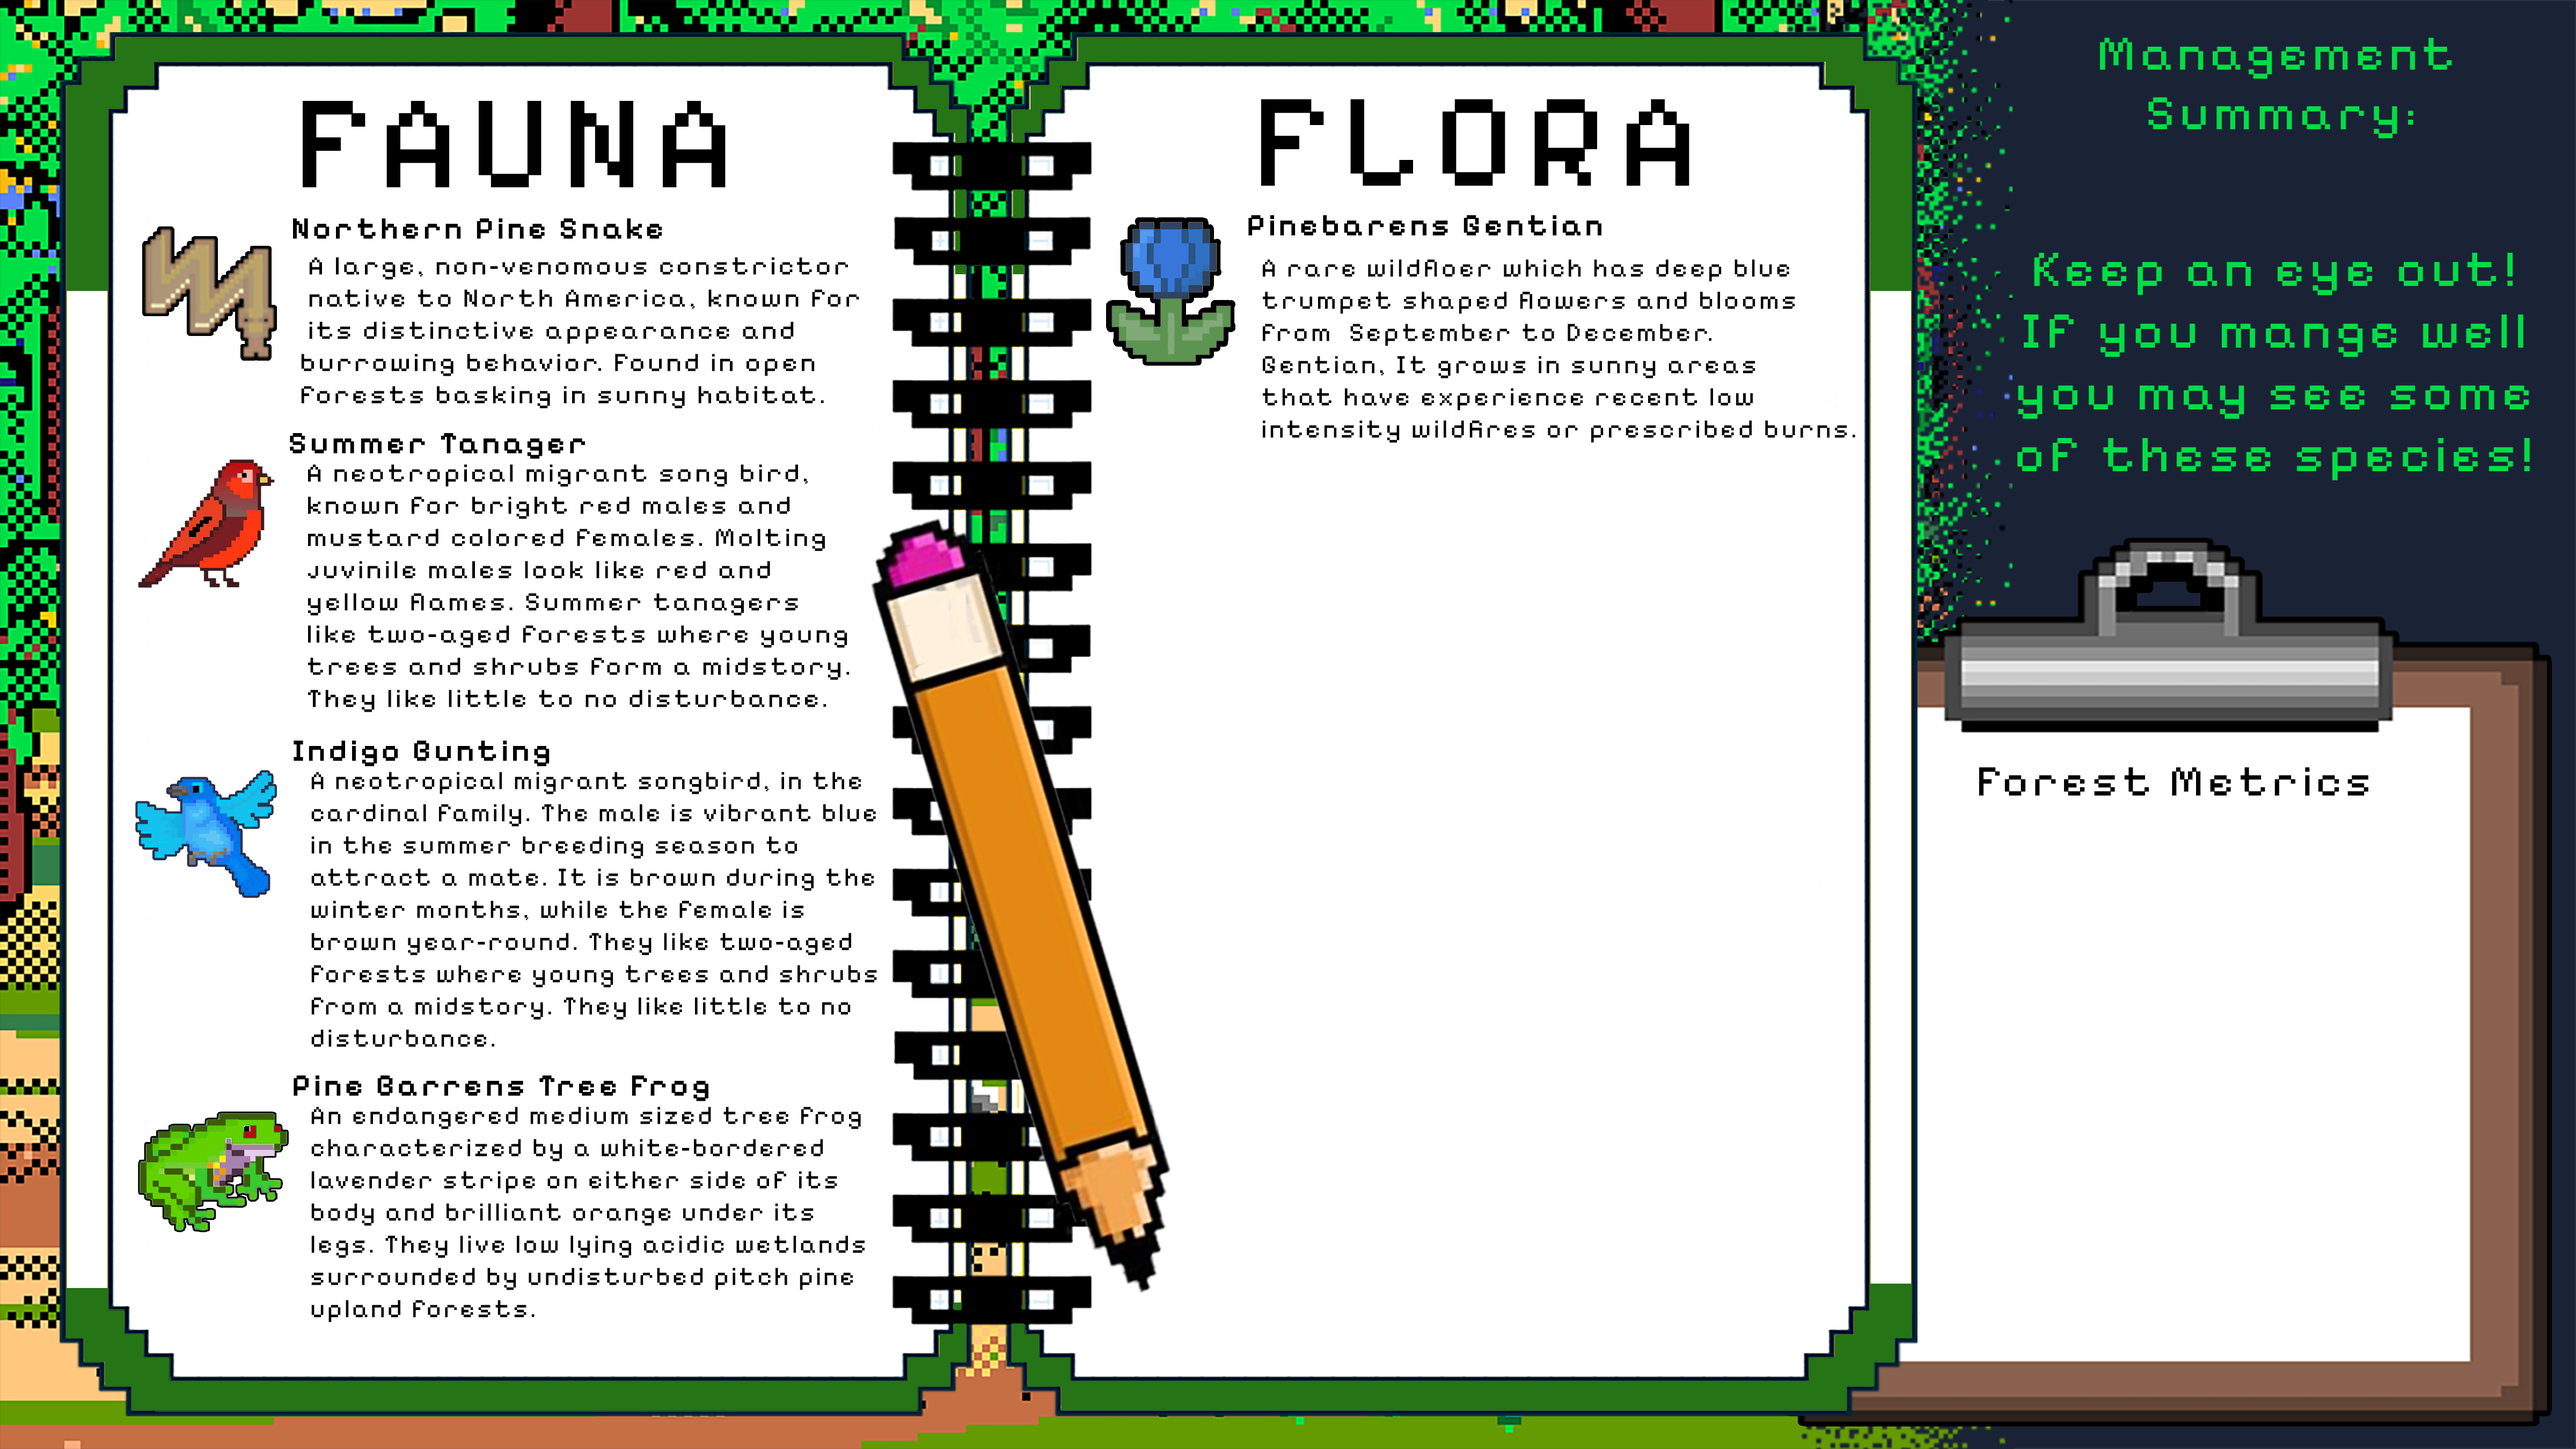
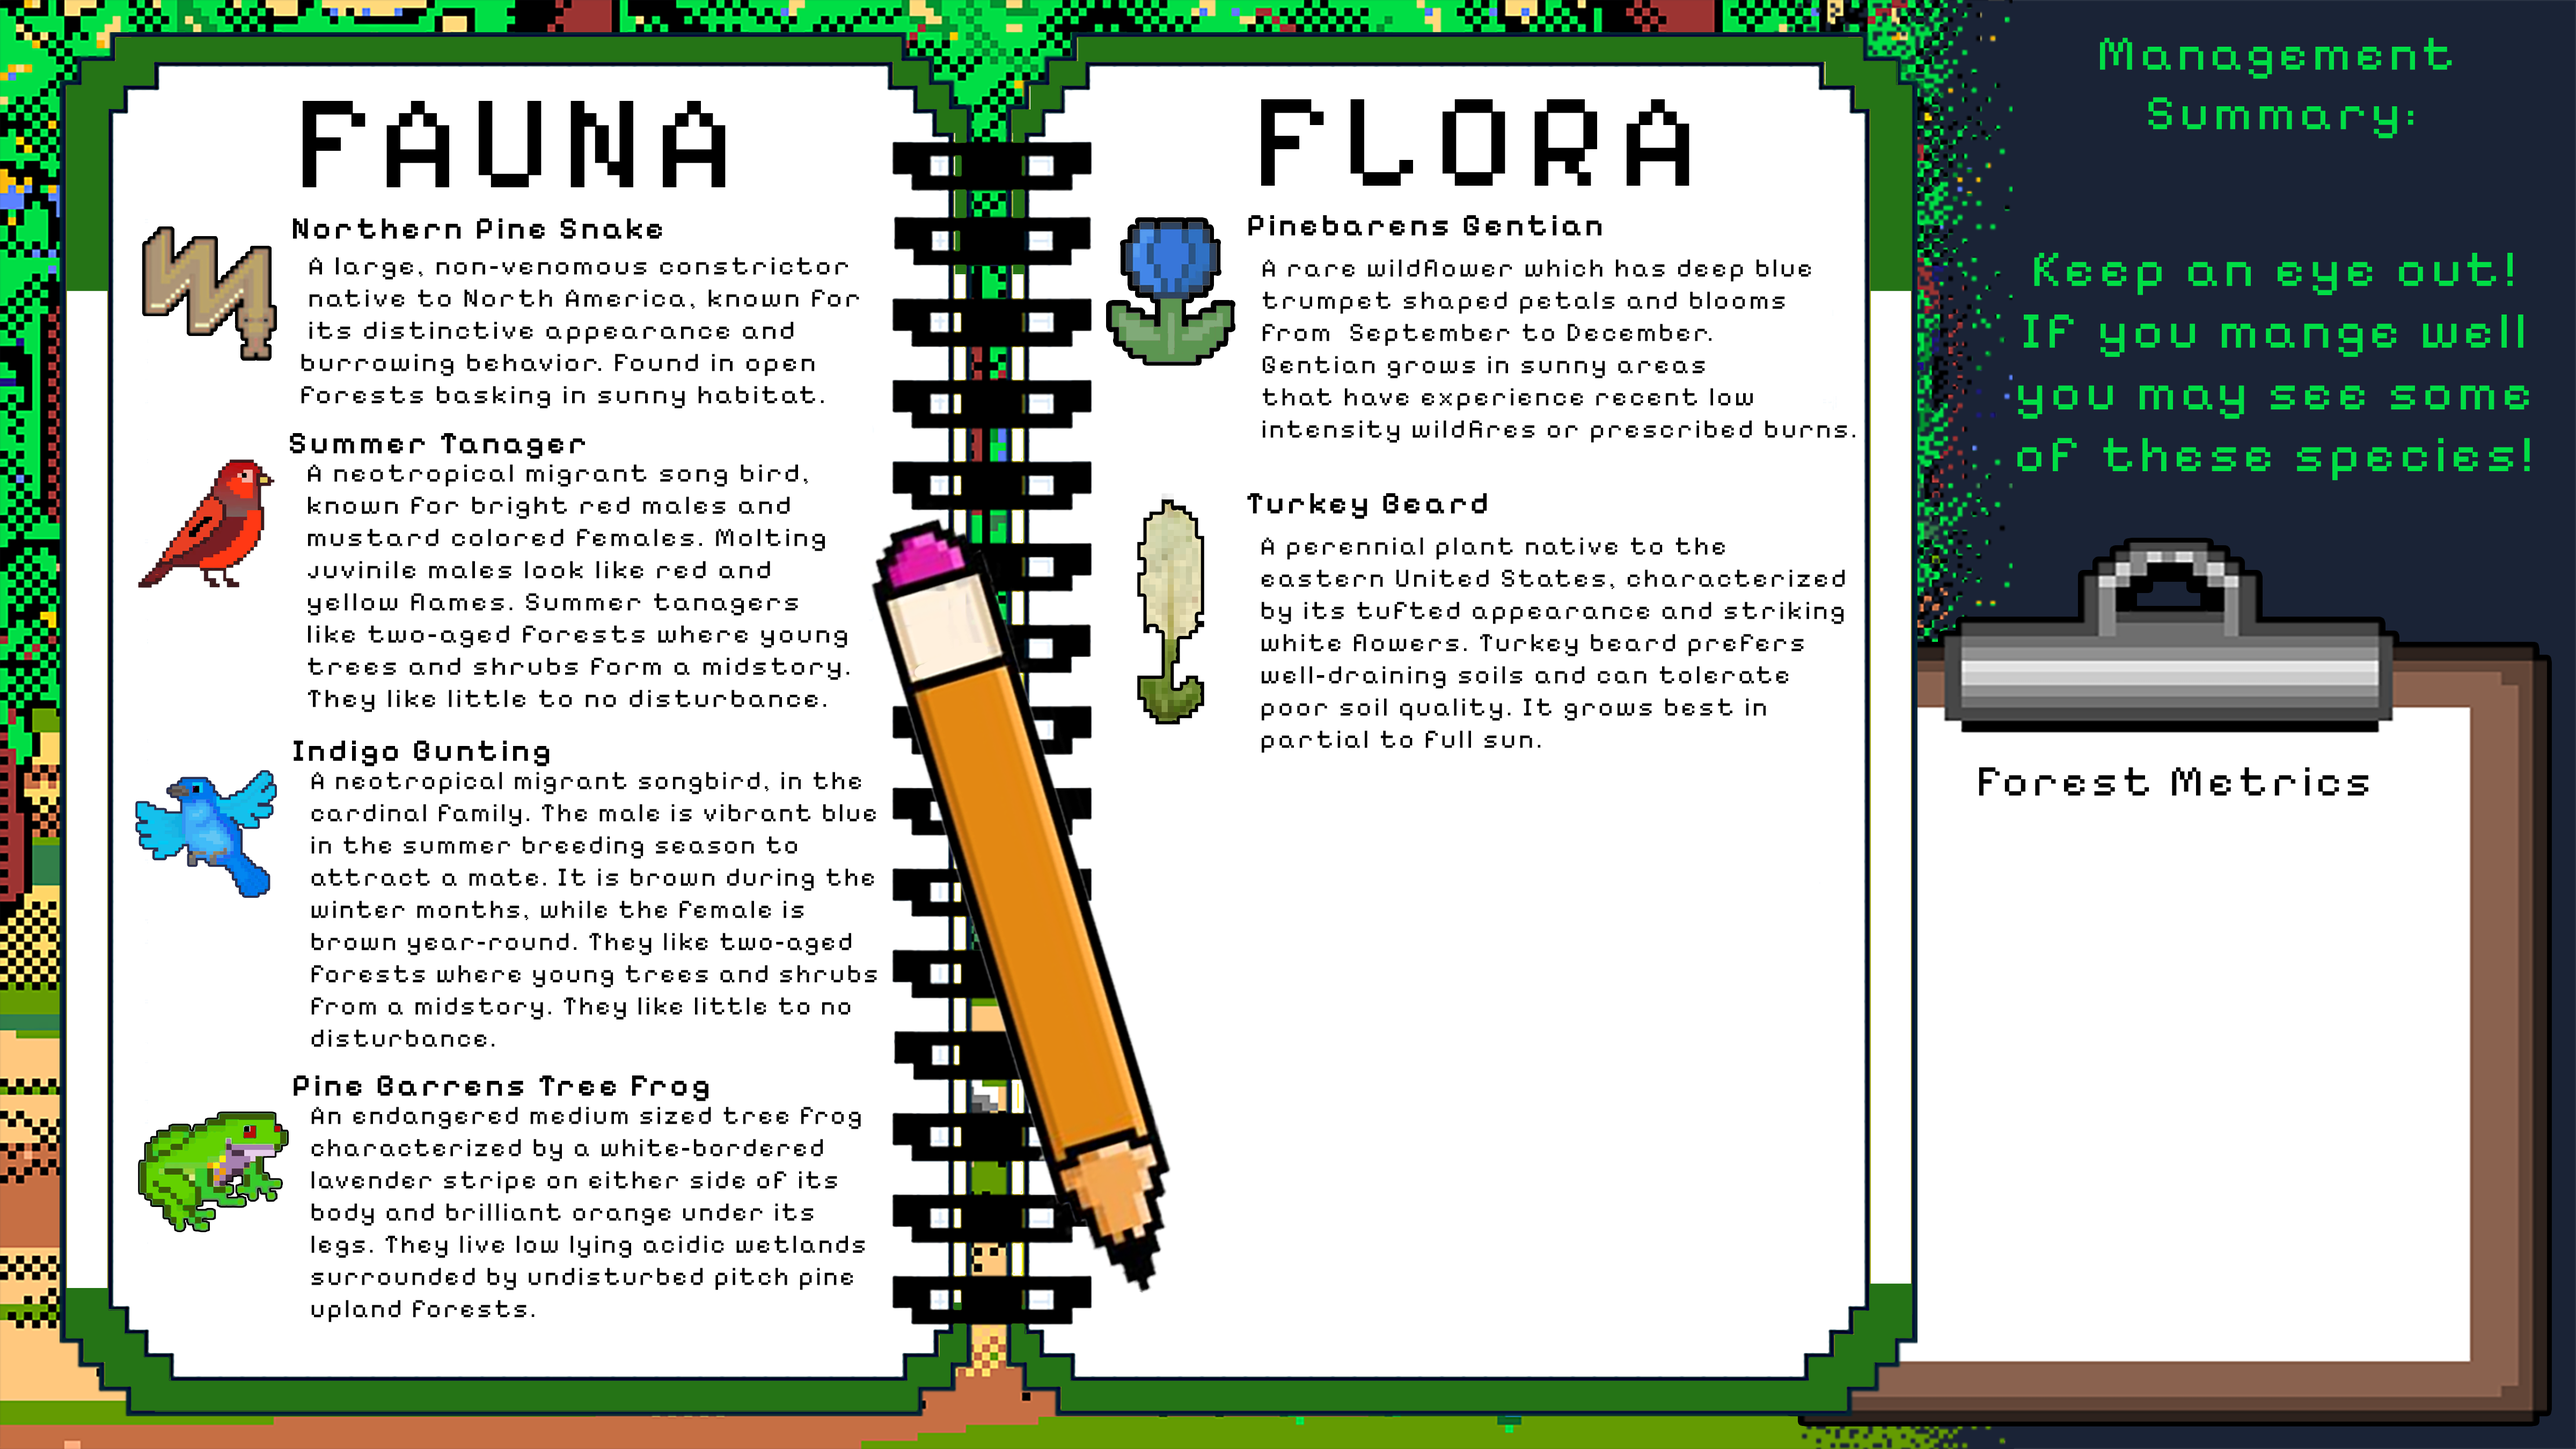
Addition of the turkey beard achievement

diff --git a/src/gui.py b/src/gui.py
@@ -45,7 +45,11 @@ def main():
     # Color constants
     BG_COLOR = "#FFFFFF"    # White background
     FG_COLOR = "#000000"    # Black text
-    
+    game.summer_tanager_screen_shown = False
+    game.tree_frog_screen_shown = False
+    game.gentian_screen_shown = False
+    game.indigo_bunting_screen_shown = False
+    game.turkey_beard_screen_shown = False
 
     # Set up the main window
     root = tk.Tk()
@@ -120,6 +124,20 @@ def main():
         game.prescribed_burn_temp_bg = None
         game.thin_lightly_temp_bg = None
         game.thin_heavily_temp_bg = None
+
+        # Ensure all achievement/colonization GUI flags are cleared so popups & medals reset
+        game.pine_snake_achieved = False
+        game.gentian_achieved = False
+        game.summer_tanager_achieved = False
+        game.tree_frog_achieved = False
+        game.indigo_bunting_achieved = False
+        game.turkey_beard_achieved = False
+
+        game.summer_tanager_screen_shown = False
+        game.tree_frog_screen_shown = False
+        game.gentian_screen_shown = False
+        game.indigo_bunting_screen_shown = False
+        game.turkey_beard_screen_shown = False
 
         # Rebuild UI
         for widget in root.winfo_children():
@@ -364,6 +382,7 @@ def main():
         ach_tan   = getattr(game, 'summer_tanager_achieved', False) or getattr(game, 'summer_tanager_colonized', False)
         ach_frog  = getattr(game, 'tree_frog_achieved', False) or getattr(game, 'pine_barrens_tree_frog_colonized', False)
         ach_bunt   = getattr(game, 'indigo_bunting_achieved', False) or getattr(game, 'indigo_bunting_colonized', False)
+        ach_turkey = getattr(game, 'turkey_beard_achieved', False) or getattr(game, 'turkey_beard_colonized', False)
 
 
         # Choose background image (build filename based on achievements)
@@ -382,6 +401,7 @@ def main():
             ("tanager", ach_tan),
             ("frog",    ach_frog),
             ("bunting", ach_bunt),
+            ("turkey",  ach_turkey),
         ]
         medals = "-".join(name for name, present in ordered if present)
         if medals:
@@ -988,6 +1008,80 @@ def main():
             command=lambda: [gentian_frame.pack_forget(), show_next_queued_achievement_or_game()]
         ).pack(pady=0)
     
+    # --- Turkey Beard Screen ---
+    def show_turkey_beard_screen():
+        """Display the screen for Turkey Beard achievement."""
+        play_gentian_sound()
+        for widget in root.winfo_children():
+            widget.pack_forget()
+        turkey_frame = tk.Frame(root, bg=BG_COLOR)
+        turkey_frame.pack(fill="both", expand=True)
+
+        # Background image
+        bg_img = Image.open("assets/turkeybeard.png")
+        bg_img = bg_img.resize((SCREEN_W, SCREEN_H))
+        bg_photo = ImageTk.PhotoImage(bg_img)
+        bg_label = tk.Label(turkey_frame, image=bg_photo)
+        bg_label.image = bg_photo
+        bg_label.place(relx=0, rely=0, relwidth=1, relheight=1)
+
+        # Metrics (copied pattern)
+        metrics_frame = tk.Frame(turkey_frame, bg="#FFFFFF", bd=0)
+        metrics_frame.place(relx=0.841, rely=0.73, anchor="center")
+        game_status = tk.StringVar()
+        status_dict = game.get_status_dict()
+        game_status.set(
+            f"Year: {status_dict['year']}\n"
+            f"\nBasal Area (BA): {status_dict['BA']:.1f} sqft/acre\n"
+            f"\nTrees Per Acre (TPA): {status_dict['TPA']}\n"
+            f"\nQuadratic Mean Diameter (QMD): {status_dict['QMD']:.1f} inches\n"
+            f"\nCarbon per Acre: {status_dict['carbon']:.1f} Metric Tons/acre\n"
+            f"\nCrowning Index: {status_dict['CI']:.1f}"
+        )
+        game_status_message = tk.Message(
+            metrics_frame,
+            textvariable=game_status,
+            width=450,
+            justify="center",
+            bg="#FFFFFF",
+            fg=FG_COLOR,
+            font=FONT
+        )
+        game_status_message.pack()
+        fire_risk_label = tk.Label(metrics_frame, wraplength=scale_x(400), justify="left",
+                                   padx=10, pady=0, bg="#FFFFFF", font=("Courier", scale_font(14), "bold"))
+        fire_risk_label.pack()
+        spb_risk_label = tk.Label(metrics_frame, wraplength=scale_x(400), justify="left",
+                                  padx=10, pady=0, bg="#FFFFFF", font=("Courier", scale_font(14), "bold"))
+        spb_risk_label.pack()
+        fire_risk_label.config(
+            text=f"\n\nFire Risk: {status_dict['fire_risk']}",
+            fg=get_risk_color(status_dict['fire_risk'])
+        )
+        spb_risk_label.config(
+            text=f"Southern Pine Beetle Risk: {status_dict['SPB_risk']}",
+            fg=get_risk_color(status_dict['SPB_risk'])
+        )
+
+        # Text frame
+        text_frame = tk.Frame(turkey_frame, bg="#1b2336", bd=0)
+        text_frame.place(relx=0.88, rely=0.2, anchor="center")
+        tk.Label(
+            text_frame,
+            text="Congratulations! Turkey Beard is now growing in this stand!\n\nYou earned the Turkey Beard achievement!",
+            bg="#1b2336", fg="#05dd4c", font=("Courier New", scale_font(18), "bold"),
+            pady=10, wraplength=scale_x(370), justify="center"
+        ).pack()
+
+        # Button frame
+        button_frame = tk.Frame(turkey_frame, bg="#000000", bd=0)
+        button_frame.place(relx=0.88, rely=0.33, anchor="center")
+        tk.Button(
+            button_frame, text="Continue", font=("Courier", scale_font(16), "bold"), width=16,
+            bg="#05dd4c", fg="#1b2336", activebackground="#069134",
+            command=lambda: [turkey_frame.pack_forget(), show_next_queued_achievement_or_game()]
+        ).pack(pady=0)
+    
     # --- Summer Tanager Screen ---
     def show_summer_tanager_screen():
         """Display the screen for Summer Tanager visitation."""
@@ -1554,6 +1648,7 @@ def main():
             tanager_before = getattr(game, 'summer_tanager_colonized', False)
             bunting_before = getattr(game, 'indigo_bunting_colonized', False)
             tree_frog_before = getattr(game, 'pine_barrens_tree_frog_colonized', False)
+            turkey_before = getattr(game, 'turkey_beard_achieved', False)
             
 
             # queue all achievements earned THIS turn; show first if any.
@@ -1566,6 +1661,8 @@ def main():
                              and not getattr(game, 'indigo_bunting_screen_shown', False))
                 new_frog  = (not tree_frog_before and getattr(game, 'pine_barrens_tree_frog_colonized', False)
                              and not getattr(game, 'tree_frog_screen_shown', False))
+                new_turkey = (not turkey_before and getattr(game, 'turkey_beard_achieved', False)
+                              and not getattr(game, 'turkey_beard_screen_shown', False))
 
                 queue = []
                 # Order here defines popup order within the turn; adjust if desired
@@ -1574,6 +1671,7 @@ def main():
                 if new_tan:   queue.append('tanager')
                 if new_bun:   queue.append('bunting')
                 if new_frog:  queue.append('frog')
+                if new_turkey: queue.append('turkey')
 
                 if queue:
                     game.current_bg_img = final_bg_img       # persist this turn’s final scene
@@ -2182,6 +2280,11 @@ def main():
                 game.tree_frog_screen_shown = True
                 game.tree_frog_achieved = True
                 show_tree_frog_screen()
+                return
+            if code == 'turkey':
+                game.turkey_beard_screen_shown = True
+                game.turkey_beard_achieved = True
+                show_turkey_beard_screen()
                 return
         # No more queued achievements
         if game.stand['year'] >= 100:

diff --git a/src/game_logic.py b/src/game_logic.py
@@ -68,6 +68,7 @@ class Game:
         self.summer_tanager_achieved = False
         self.tree_frog_achieved = False
         self.indigo_bunting_achieved = False
+        self.turkey_beard_achieved = False
         # One-time popup guards
         self.summer_tanager_screen_shown = False
         self.tree_frog_screen_shown = False
@@ -109,6 +110,7 @@ class Game:
         self.summer_tanager_achieved = False
         self.tree_frog_achieved = False
         self.indigo_bunting_achieved = False
+        self.turkey_beard_achieved = False
         # One-time popup guards
         self.summer_tanager_screen_shown = False
         self.tree_frog_screen_shown = False
@@ -224,7 +226,12 @@ class Game:
             if random.random() < 0.2:
                 self.gentian_colonized = True
 
-        # Step 13: Summer Tanager logic (0.4 probability once conditions met)
+        # Step 13: Turkey Beard achievement (50% chance when prescribed burn and BA < 60)
+        if action == '4' and ba_next < 60 and not self.turkey_beard_achieved:
+            if random.random() < 0.5:
+                self.turkey_beard_achieved = True
+
+        # Step 14: Summer Tanager logic (0.4 probability once conditions met)
         if (not self.summer_tanager_colonized
             and self.suitable_tanager_ba_reached
             and len(self.action_history) >= 2
@@ -233,7 +240,7 @@ class Game:
             if random.random() < 0.4:
                 self.summer_tanager_colonized = True
 
-        # Step 14Indigo Bunting logic (0.4 probability once conditions met)
+        # Step 15Indigo Bunting logic (0.4 probability once conditions met)
         if (not self.indigo_bunting_colonized
             and self.suitable_bunting_ba_reached
             and len(self.action_history) >= 2
@@ -242,7 +249,7 @@ class Game:
             if random.random() < 0.4:
                 self.indigo_bunting_colonized = True
 
-        # Step 15: Pine Barrens tree frog logic
+        # Step 16: Pine Barrens tree frog logic
         # Colonize after sequence: heavy thin ('3') -> prescribed burn ('4') -> >=2 consecutive '1's
         if not self.pine_barrens_tree_frog_colonized:
             # Include current action in the sequence check (since we append after logic)
@@ -354,6 +361,9 @@ class Game:
 
         if self.pine_barrens_tree_frog_colonized:
             summary += "\nPine Barrens tree frog has colonized this stand!\n"
+
+        if self.turkey_beard_achieved:
+            summary += "\nTurkey Beard is now growing in this stand!\n"
 
         return summary
 
